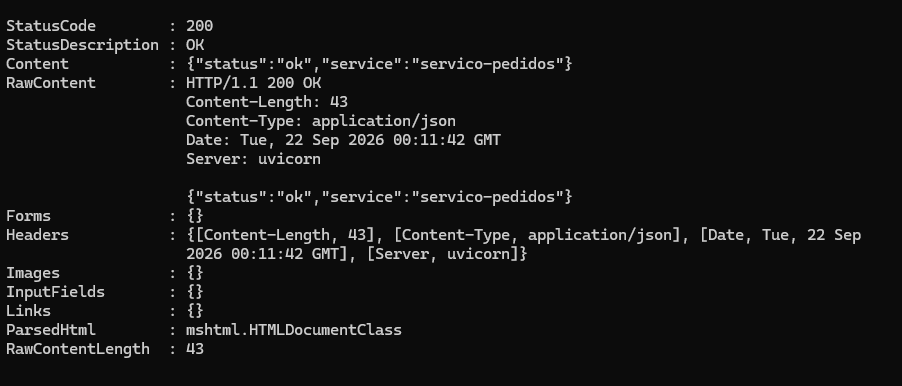
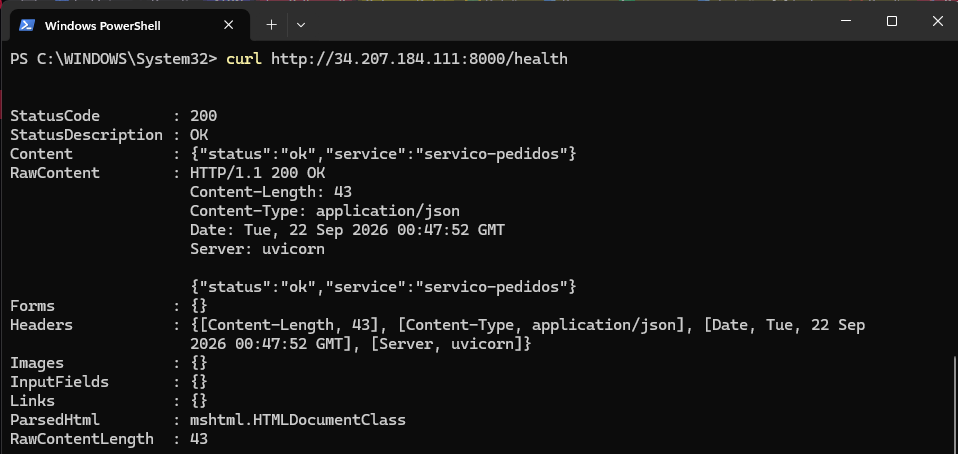
docs: aviso de ambiente efemero (AWS Academy Sandbox) e evidencias atualizadas
- docs/deploy-aws.md §3.1: bloco "Aviso importante" registrando que a instancia
  EC2 e DESTRUIDA ao fim de cada sessao do laboratorio (nao apenas parada) e que o
  IP publico muda a cada novo provisionamento — com a instrucao de conferir o
  endereco atual no painel da AWS antes de rodar curl, abrir o Swagger ou mexer no
  Security Group.
- docs/deploy-aws.md §7: o texto anterior dizia que bastava iniciar a instancia
  novamente para a demonstracao futura; com o sandbox, o provisionamento e refeito
  do zero (instancia, Security Group, Swap e deploy) e o IP muda.
- docs/evidencias/: novas capturas `2026-09-21-docker-ps-ec2.png` (docker ps com os
  quatro containers healthy e so a 0.0.0.0:8000 publica) e
  `2026-09-21-curl-interno-ec2.png`; `2026-09-21-curl-externo.png` substituida por
  uma captura com a URL visivel no comando; README atualizado com o indice e a
  explicacao de por que os enderecos mudam entre ciclos.

diff --git a/docs/evidencias/README.md b/docs/evidencias/README.md
@@ -1,14 +1,16 @@
 # Evidências de homologação — EC2 (Sprint 2 / Issue #8)
 
-Capturas de **21/09/2026**, na instância EC2 `i-09df326d451a729cd` (`caixanamao`, `us-east-1`, Ubuntu Server, `t3.micro`).
+Capturas de **21/09/2026**, na instância EC2 `caixanamao` (`us-east-1`, Ubuntu Server, `t3.micro`), provisionada no **AWS Academy Sandbox**.
 
 | Arquivo | O que mostra |
 |---|---|
-| `2026-09-21-deploy-ec2.png` | Saída do `bash scripts/deploy.sh` na instância: build dos serviços, criação dos containers e o `docker compose ps` final com `postgres`, `redis`, `servico-estoque` e `servico-pedidos` em **healthy** — apenas a `0.0.0.0:8000` publicada, o resto preso em `127.0.0.1`. |
-| `2026-09-21-curl-externo.png` | Requisição partindo da **máquina local, fora da AWS**, contra o IP público da instância: `StatusCode 200`, `Content-Type: application/json` e corpo `{"status":"ok","service":"servico-pedidos"}`. |
+| `2026-09-21-docker-ps-ec2.png` | `docker ps` na instância: os quatro containers em **healthy**, com `0.0.0.0:8000` como **única porta pública** e `127.0.0.1` para `5432`, `6379`, `8002` e `50051`. |
+| `2026-09-21-deploy-ec2.png` | Saída do `bash scripts/deploy.sh`: build dos serviços, health checks e detecção do IP público via **IMDSv2**. |
+| `2026-09-21-curl-interno-ec2.png` | `curl http://127.0.0.1:8000/health` **dentro da instância** → `{"status":"ok","service":"servico-pedidos"}`. |
+| `2026-09-21-curl-externo.png` | PowerShell na **máquina local, fora da AWS**: `curl http://34.207.184.111:8000/health` → `StatusCode 200`, `Content-Type: application/json` e o corpo do health check. |
 
-## Observação sobre endereços
+## Por que os endereços mudam entre capturas
 
-O **IP público muda quando a instância é parada e iniciada** — e o guia de deploy sugere `Stop Instance` para economizar créditos. Na captura do deploy, a instância respondia em **`34.207.184.111`** (privado `172.31.30.199`); a captura de `curl` interno registra o hostname `ip-172-31-19-186`, de um ciclo anterior de parada/início da mesma instância.
+O laboratório roda em **AWS Academy Sandbox**: a instância é **destruída ao fim de cada sessão** e o **IP público muda a cada novo provisionamento** — inclusive o privado. É por isso que capturas de ciclos diferentes mostram hostnames distintos (`ip-172-31-19-186`, `ip-172-31-30-199`) e endereços públicos diferentes (`54.226.19.86`, `34.207.184.111`).
 
-Para a demonstração, o caminho é associar um **Elastic IP** à instância: o endereço passa a sobreviver a stop/start e os roteiros de teste param de depender de editar o Security Group e a URL.
+**Antes de testar, confira o IP atual no painel da AWS** (EC2 → Instâncias → *Public IPv4 address*). O procedimento e as consequências estão no aviso importante em [`docs/deploy-aws.md` §3.1](../deploy-aws.md).

diff --git a/docs/deploy-aws.md b/docs/deploy-aws.md
@@ -54,6 +54,14 @@ O `docker-compose.homolog.yml` faz uso da diretiva `!override` (disponível no D
   > Devido à restrição física de 1 GB de RAM da `t3.micro`, subir PostgreSQL, Redis e APIs juntos sem paginação de memória causará **OOM (Out of Memory) Killer**, derrubando o banco de dados. A criação de 2 GB de memória Swap é **estritamente obrigatória** antes de executar o deploy.
 * **Armazenamento:** Mínimo de 16 GB SSD gp3.
 
+> [!IMPORTANT]
+> **Aviso importante — o ambiente é efêmero (AWS Academy Sandbox).**
+> O laboratório opera em modo *sandbox*: **a instância EC2 é destruída ao final de cada sessão**, não apenas parada. Consequências práticas para quem for testar:
+> - o **IP público muda a cada novo provisionamento** — nenhum endereço visto em prints, no corpo de PRs ou em mensagens da equipe deve ser tratado como fixo;
+> - **sempre confira o novo IP no painel da AWS** (EC2 → Instâncias → *Public IPv4 address*) **antes** de rodar o `curl`, abrir o Swagger ou mexer no Security Group;
+> - o deploy é refeito do zero a cada sessão: instância, Security Group, Swap (§4.3) e `bash scripts/deploy.sh`;
+> - se precisar de um endereço estável durante a apresentação, provisione a instância com antecedência e mantenha a sessão aberta — ou associe um **Elastic IP**, quando a conta do laboratório permitir.
+
 ### 3.2 Regras de Firewall (Security Group)
 Crie um Security Group denominado `caixanamao-homolog-sg` contendo as seguintes regras de entrada (*Inbound Rules*):
 
@@ -171,4 +179,7 @@ Para evitar consumo desnecessário de horas ou créditos de nuvem após a valida
    ```bash
    bash scripts/deploy.sh --down
    ```
-2. No Console AWS EC2, selecione a instância e clique em **Estado da instância $\rightarrow$ Interromper instância (Stop Instance)**. Quando for necessário apresentar a demonstração na Sprint 5, basta iniciá-la novamente.
+2. No Console AWS EC2, encerre a instância conforme a política do laboratório.
+
+> [!WARNING]
+> No **AWS Academy Sandbox** a instância é **destruída ao fim da sessão** (não fica parada esperando a próxima). Ao reabrir o laboratório, o provisionamento é feito de novo — instância, Security Group, Swap §4.3 e deploy — e o **IP público será outro**: confira-o no painel antes de qualquer teste (ver o aviso importante na §3.1).
